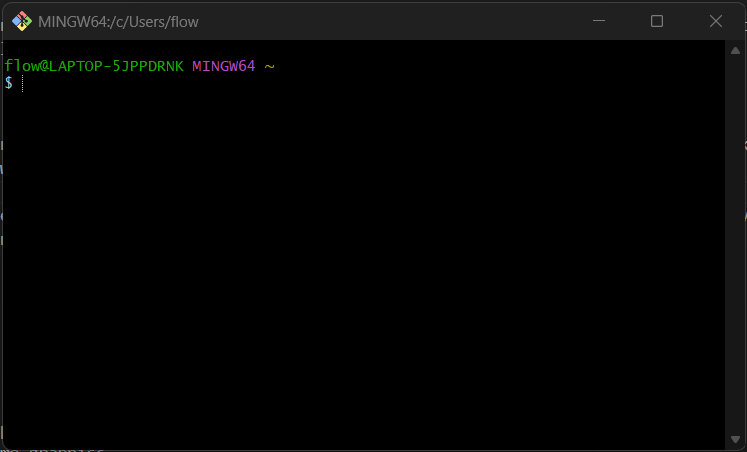
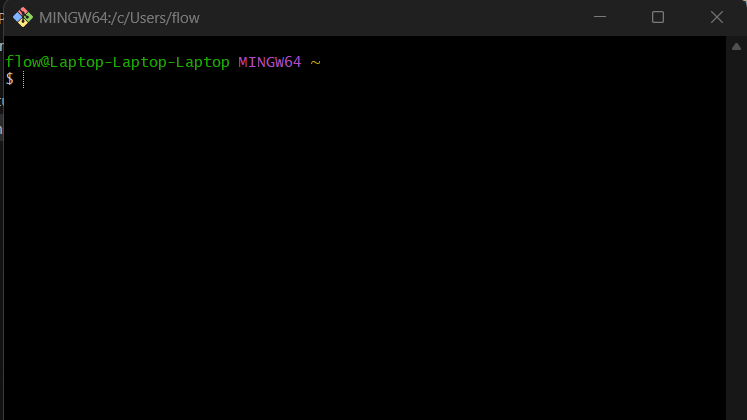
a

diff --git a/Docs/Git_Basics.md b/Docs/Git_Basics.md
@@ -7,9 +7,9 @@ Git is a universally used tool made about 20 years ago by Linus Torvalds. Git al
 **Git:** A commonly used version control software.     
 **Git Bash:** A terminal in which to run git from. Open on windows by pressing the `[Windows]` key, typing in `"git bash"`, and hitting enter. You should end up with something like this:       
 
-<img alt="Git Bash Terminal" src="../Assets/Git_Bash_Terminal.png" width="373" height="226">
+<img alt="Git Bash Terminal" src="../Assets/Git_Bash_Terminal.png" width="373" height="210">
 
-Here, note that the stuff before the at (@) sign is the name of the user on the computer (for me, `flow`), and the stuff after the at sign is the name of the computer (for me, `Laptop-5JPPDNRK`).
+Here, note that the stuff before the at (@) sign is the name of the user on the computer (for me, `flow`), and the stuff after the at sign is the name of the computer (for me, `Laptop-Laptop-Laptop`).
 
 **Github:** A place to store repositories (repos), or projects. Note that github is not the only place where repositories can be stored, it is simply the most common place. While git is open source, github is run by Microsoft.      
 **Github Desktop:** A GUI alternative to git.
